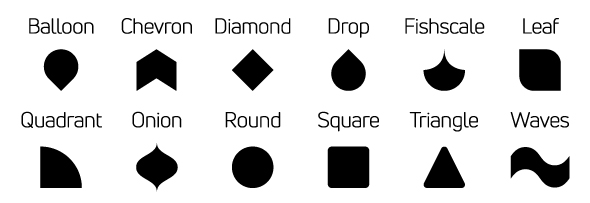
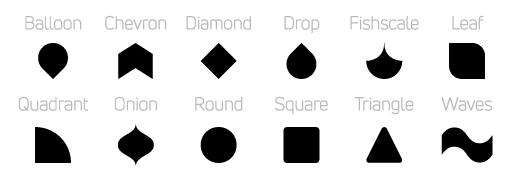
tiles

diff --git a/mosaic_html/index.html b/mosaic_html/index.html
@@ -17,7 +17,8 @@
 				<li>No mask or selection needed, open the image, choose the action and play</li>
 				<li>Non-destructive, keeps the original image untouched</li>
 				<li>12 different tiles shapes<br /><br />
-                <table><tbody><tr><td><p class="SUBTEXT">Balloon</p></td><td class="Tabla-b-sica CellOverride-1"><p class="SUBTEXT">Chevron</p></td><td class="Tabla-b-sica CellOverride-1"><p class="SUBTEXT">Diamond</p></td><td class="Tabla-b-sica CellOverride-1"><p class="SUBTEXT">Drop</p></td><td class="Tabla-b-sica CellOverride-1"><p class="SUBTEXT">Fishscale</p></td><td class="Tabla-b-sica CellOverride-1"><p class="SUBTEXT">Leaf</p></td></tr><tr class="Tabla-b-sica _idGenTableRowColumn-3"><td class="Tabla-b-sica CellOverride-1"><p class="SUBTEXT"><img class="_idGenObjectAttribute-1" src="texto-web-resources/image/1.png" alt="" /></p></td><td class="Tabla-b-sica CellOverride-1"><p class="SUBTEXT"><img class="_idGenObjectAttribute-2" src="texto-web-resources/image/2.png" alt="" /></p></td><td class="Tabla-b-sica CellOverride-1"><p class="SUBTEXT"><img class="_idGenObjectAttribute-3" src="texto-web-resources/image/3.jpg" alt="" /></p></td><td class="Tabla-b-sica CellOverride-1"><p class="SUBTEXT"><img class="_idGenObjectAttribute-1" src="texto-web-resources/image/4.png" alt="" /></p></td><td class="Tabla-b-sica CellOverride-1"><p class="SUBTEXT"><img class="_idGenObjectAttribute-4" src="texto-web-resources/image/5.jpg" alt="" /></p></td><td class="Tabla-b-sica CellOverride-1"><p class="SUBTEXT"><img class="_idGenObjectAttribute-4" src="texto-web-resources/image/5.jpg" alt="" /></p></td></tr><tr class="Tabla-b-sica _idGenTableRowColumn-2"><td class="Tabla-b-sica CellOverride-1"><p class="SUBTEXT">Quadrant</p></td><td class="Tabla-b-sica CellOverride-1"><p class="SUBTEXT">Onion</p></td><td class="Tabla-b-sica CellOverride-1"><p class="SUBTEXT">Round</p></td><td class="Tabla-b-sica CellOverride-1"><p class="SUBTEXT">Square</p></td><td class="Tabla-b-sica CellOverride-1"><p class="SUBTEXT">Triangle</p></td><td class="Tabla-b-sica CellOverride-1"><p class="SUBTEXT">Waves</p></td></tr><tr class="Tabla-b-sica _idGenTableRowColumn-4"><td class="Tabla-b-sica CellOverride-1"><p class="SUBTEXT"><img class="_idGenObjectAttribute-5" src="texto-web-resources/image/7.png" alt="" /></p></td><td class="Tabla-b-sica CellOverride-1" /><td class="Tabla-b-sica CellOverride-1"><p class="SUBTEXT"><img class="_idGenObjectAttribute-4" src="texto-web-resources/image/8.png" alt="" /></p></td><td class="Tabla-b-sica CellOverride-1"><p class="SUBTEXT"><img class="_idGenObjectAttribute-4" src="texto-web-resources/image/9.png" alt="" /></p></td><td class="Tabla-b-sica CellOverride-1"><p class="SUBTEXT"><img class="_idGenObjectAttribute-4" src="texto-web-resources/image/10.png" alt="" /></p></td><td class="Tabla-b-sica CellOverride-1" /></tr></tbody></table></li>
+                <img src="https://raw.githubusercontent.com/akidaniel/almacen/gh-pages/mosaic_html/imagenes/TILES.jpg" alt="Tiles"></li>
+
 				<li>x 3 different sizes: 20px, 30px and 40 px</li>
 				<li>= 36 total actions</li>
 				<li>+ 10 frames animation</li>
